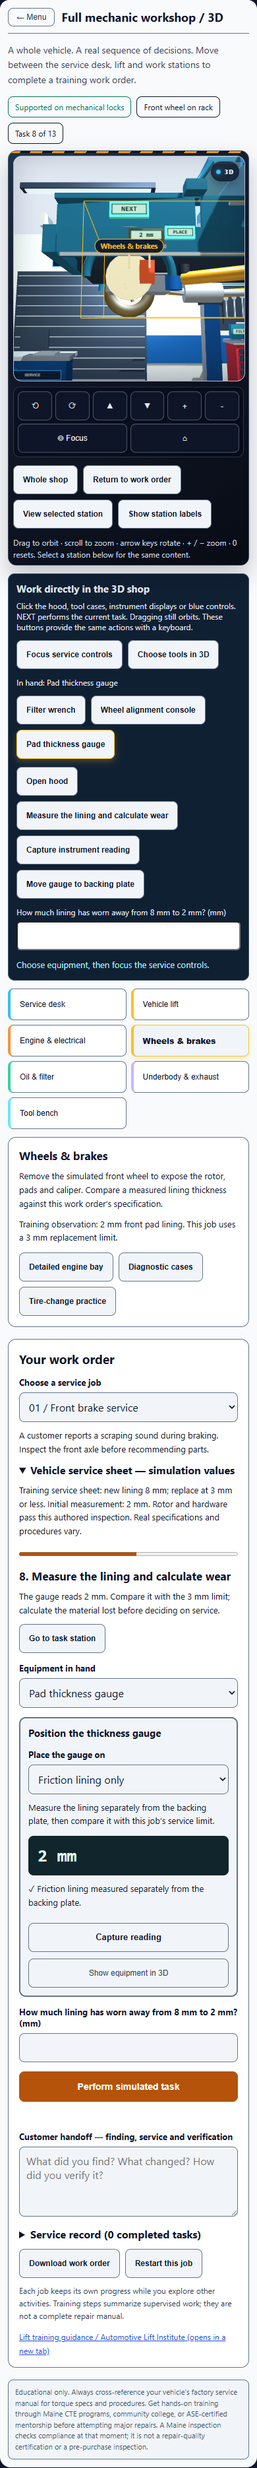
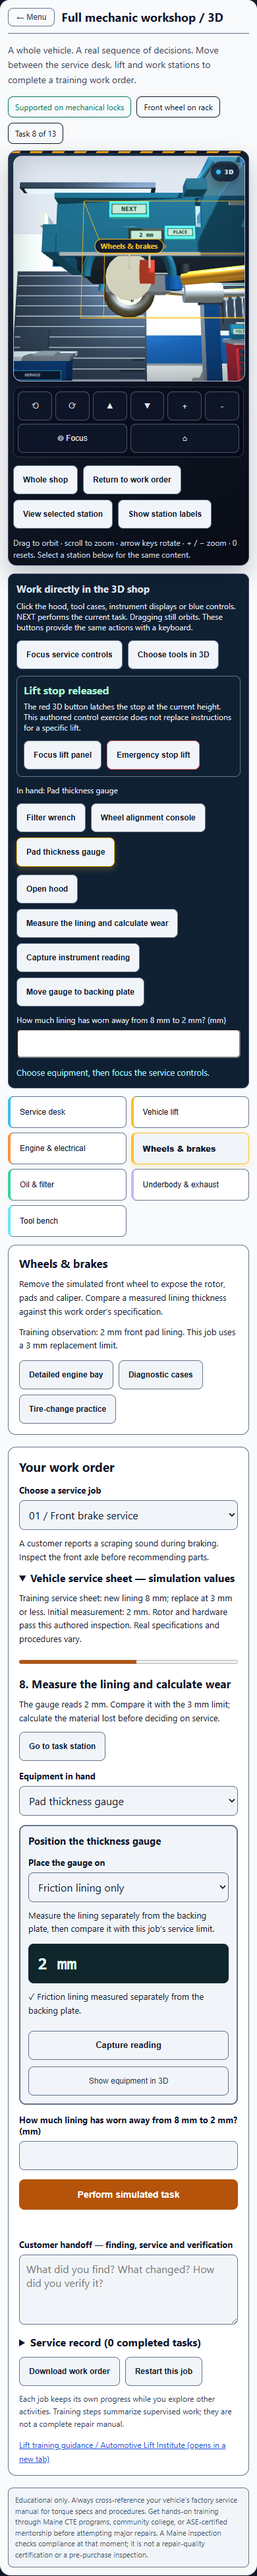
Make workshop lift stop and reset controls operational

diff --git a/desktop/web-app/public/stem_lab/stem_tool_autorepair.js b/desktop/web-app/public/stem_lab/stem_tool_autorepair.js
@@ -9458,7 +9458,7 @@ if (!(window.StemLab.isRegistered && window.StemLab.isRegistered('autoRepair')))
       shopTask('verify', 'brakes', 'aligner', 'Repeat the alignment measurement after securing the adjustment', 'This step represents securing hardware to the vehicle procedure, settling the suspension, checking steering centre and remeasuring. Capture a fresh result before accepting the repair.', { verified: true }, { serviced: true, alignmentReady: true, lift: 'ground', wheelRemoved: false }), SHOP_RELEASE] });
   function arShopJob(id) { return SHOP_JOBS.filter(function (j) { return j.id === id; })[0] || SHOP_JOBS[0]; }
   function arShopInitial(jobId) {
-    return { job: arShopJob(jobId).id, step: 0, station: 'intake', tool: 'job-card', lift: 'ground', hood: false,
+    return { job: arShopJob(jobId).id, step: 0, station: 'intake', tool: 'job-card', lift: 'ground', hood: false, liftStopped: false, liftBayClear: false,
       wheelRemoved: false, measured: false, serviced: false, verified: false, released: false, oilDrained: false,
       alignmentReady: false, alignment: { left: 30, right: 10, selected: 'left', tyres: false, targets: false, centered: false },
       plugSecured: false, refilled: false, torqued: false, wheelSeated: false, lugs: [], reading: null, instrument: { mode: 'dcv', contact: 'posts', load: 'off', surface: 'lining', jugMl: 4100 }, answer: '', notes: '', feedback: '', history: [] };
@@ -9470,6 +9470,8 @@ if (!(window.StemLab.isRegistered && window.StemLab.isRegistered('autoRepair')))
     state.step = Number.isInteger(state.step) ? Math.max(0, Math.min(job.tasks.length, state.step)) : 0;
     if (!SHOP_STATIONS.some(function (p) { return p.id === state.station; })) state.station = 'intake';
     if (['ground', 'prepared', 'low', 'checked', 'raised', 'locked'].indexOf(state.lift) === -1) state.lift = 'ground';
+    state.liftStopped = state.liftStopped === true;
+    state.liftBayClear = state.liftStopped && state.liftBayClear === true;
     var setup = state.instrument && typeof state.instrument === 'object' ? state.instrument : {};
     state.instrument = { mode: setup.mode === 'resistance' ? 'resistance' : 'dcv', contact: setup.contact === 'joint' ? 'joint' : 'posts', load: setup.load === 'starter' ? 'starter' : 'off', surface: setup.surface === 'backing' ? 'backing' : 'lining',
       jugMl: Number.isFinite(setup.jugMl) ? Math.max(0, Math.min(5000, Math.round(setup.jugMl / 100) * 100)) : 4100 };
@@ -9597,6 +9599,7 @@ if (!(window.StemLab.isRegistered && window.StemLab.isRegistered('autoRepair')))
     var state = arShopState(raw), job = arShopJob(state.job), task = job.tasks[state.step];
     function blocked(message) { return Object.assign({}, state, { feedback: message }); }
     if (!task) return blocked('This training work order is complete. Review the handoff or choose another job.');
+    if (state.liftStopped && task.tool === 'lift-controls') return blocked('Lift stop is latched. Check the bay is clear and reset the stop before issuing a new lift command.');
     if (state.station !== task.station) return blocked('Go to ' + SHOP_STATIONS.filter(function (p) { return p.id === task.station; })[0].label + ' for this task.');
     if (state.tool !== task.tool) return blocked('Choose ' + SHOP_TOOLS.filter(function (t) { return t[0] === task.tool; })[0][1] + ' for this task.');
     var unmet = Object.keys(task.requires).some(function (key) { return state[key] !== task.requires[key]; });
@@ -9620,6 +9623,11 @@ if (!(window.StemLab.isRegistered && window.StemLab.isRegistered('autoRepair')))
   }
   function arShop3DActions(state) {
     var task = arShopJob(state.job).tasks[state.step], kind = arShopInstrumentKind(state), actions = [];
+    actions.push({ id: 'lift-stop', label: 'Emergency stop lift', station: 'lift' });
+    if (state.liftStopped) {
+      actions.push({ id: 'lift-clear', label: state.liftBayClear ? 'Reopen bay-clear check' : 'Confirm simulated bay is clear', station: 'lift' });
+      actions.push({ id: 'lift-reset', label: 'Reset lift stop', station: 'lift' });
+    }
     if (!(state.job === 'alignment' && state.alignmentCutaway)) actions.push({ id: 'hood', label: state.hood ? 'Close hood' : 'Open hood', station: 'engine' });
     if (!task) return actions;
     actions.push({ id: 'task', label: task.label, station: task.station });
@@ -9659,6 +9667,12 @@ if (!(window.StemLab.isRegistered && window.StemLab.isRegistered('autoRepair')))
     var action = arShop3DActions(state).filter(function (item) { return item.id === id; })[0];
     if (!action) return blocked('This control is unavailable for the current task.');
     var atStation = Object.assign({}, state, { station: action.station });
+    if (id === 'lift-stop') return Object.assign({}, atStation, { liftStopped: true, liftBayClear: false, feedback: 'Lift stop latched. Lift commands are blocked; the vehicle stays at its current height. Check the bay before resetting.' });
+    if (id === 'lift-clear') return Object.assign({}, atStation, { liftBayClear: !state.liftBayClear, feedback: state.liftBayClear ? 'Bay-clear check reopened. The lift remains stopped.' : 'Simulated bay-clear check recorded. Reset the stop when ready; reset will not move the vehicle.' });
+    if (id === 'lift-reset') {
+      if (!state.liftBayClear) return blocked('Confirm the simulated bay is clear before resetting the lift stop.');
+      return Object.assign({}, atStation, { liftStopped: false, liftBayClear: false, feedback: 'Lift stop reset. Vehicle position is unchanged. Issue a new lift command to continue.' });
+    }
     if (id === 'hood') return Object.assign({}, atStation, { hood: !state.hood, reading: null, feedback: state.hood ? 'Hood closed.' : 'Hood opened. Engine components are accessible.' });
     if (id === 'task') return arShopAdvance(atStation);
     // Physical instrument controls obey the same equipment/access gates as capturing a reading.
@@ -9930,7 +9944,12 @@ if (!(window.StemLab.isRegistered && window.StemLab.isRegistered('autoRepair')))
     });
     box(lift, 'lift-overhead-crossbar', [0.26, 0.17, 2.97], [0.05, 3.30, 0], blue);
     box(lift, 'lift-control-panel', [0.20, 0.31, 0.16], [-0.13, 1.35, 1.51], dark);
-    cylinder(lift, 'lift-emergency-stop', 0.035, 0.032, [-0.13, 1.39, 1.607], red, 'z');
+    cylinder(lift, 'lift-stop-surround', 0.060, 0.012, [-0.13, 1.39, 1.603], amber, 'z');
+    var stopButton = cylinder(lift, 'lift-emergency-stop', 0.042, 0.032, [-0.13, 1.39, state.liftStopped ? 1.616 : 1.636], red, 'z');
+    stopButton.userData.latched = state.liftStopped;
+    var stopDisplay = instrumentDisplay(lift, state.liftStopped ? 'STOP' : 'READY', [-0.13, 1.60, 1.61], 0.32);
+    if (stopDisplay) stopDisplay.name = 'lift-stop-status-display';
+    cylinder(lift, 'lift-stop-status-light', 0.025, 0.020, [0.10, 1.60, 1.61], state.liftStopped ? red : green, 'z');
     register('lift', lift, [0.05, 1.75, 1.36]);
     if (state.job === 'alignment') {
       var toe = arShopAlignment(state), alignmentRig = new THREE.Group(); alignmentRig.name = 'workshop-alignment-rig'; brakes.add(alignmentRig);
@@ -10061,6 +10080,10 @@ if (!(window.StemLab.isRegistered && window.StemLab.isRegistered('autoRepair')))
       box(group, 'control-case-' + id, [width + 0.04, width * 0.32 + 0.045, 0.045], [0, 0, 0], api.trim(0x22d3ee, 20));
       instrumentDisplay(group, caption, [0, 0, 0.026], width); bindControl(group, id); return group;
     }
+    bindControl(stopButton, 'lift-stop');
+    bindControl(lift.getObjectByName('lift-stop-surround'), 'lift-stop');
+    directButton(lift, 'lift-clear', state.liftBayClear ? 'RECHECK' : 'CLEAR?', [-0.40, 0.98, 1.64], 0.30);
+    directButton(lift, 'lift-reset', 'RESET', [0.02, 0.98, 1.64], 0.30);
     bindControl(hood, 'hood');
     var toolShort = { 'job-card': 'ORDER', 'lift-card': 'CHECK', 'lift-controls': 'LIFT', lamp: 'LAMP', socket: 'SOCKET', gauge: 'GAUGE', 'brake-kit': 'BRAKES', torque: 'TORQUE', 'drain-pan': 'DRAIN', filter: 'FILTER', funnel: 'OIL JUG', meter: 'METER', 'terminal-kit': 'CLAMP', checklist: 'VERIFY', aligner: 'ALIGN', 'tie-rod': 'TIE ROD' };
     arShop3DTools(state).forEach(function (tool, index) {
@@ -19915,7 +19938,7 @@ if (!(window.StemLab.isRegistered && window.StemLab.isRegistered('autoRepair')))
         var instrumentKind = arShopInstrumentKind(shop);
         var instrumentVisible = instrumentKind && task && shop.station === task.station && shop.tool === task.tool;
         var equipmentState = instrumentVisible ? JSON.stringify([instrumentKind, shop.instrument, shop.reading ? shop.reading.key : '']) : '';
-        var sceneState = [shop.job, shop.step, shop.tool, shop.lift, shop.hood, shop.wheelRemoved, shop.serviced, shop.oilDrained, shop.refilled, shop.wheelSeated, instrumentKind === 'torque' ? shop.lugs.join(',') : '', instrumentKind === 'torque', equipmentState, shop.job === 'alignment' ? JSON.stringify([shop.alignment, !!shop.alignmentCutaway]) : ''].join('-');
+        var sceneState = [shop.job, shop.step, shop.tool, shop.lift, shop.liftStopped, shop.liftBayClear, shop.hood, shop.wheelRemoved, shop.serviced, shop.oilDrained, shop.refilled, shop.wheelSeated, instrumentKind === 'torque' ? shop.lugs.join(',') : '', instrumentKind === 'torque', equipmentState, shop.job === 'alignment' ? JSON.stringify([shop.alignment, !!shop.alignmentCutaway]) : ''].join('-');
         SHOP3D.sync({ selected: shop.station, dark: isDark, contrast: isContrast,
           sceneKey: 'whole-workshop-' + sceneState, sceneProps: shop, showAllLabels: !!d.shopLabels,
           onPick: pick, onStatus: function (next) { upd('uh3dStatus', next); } });
@@ -19938,6 +19961,10 @@ if (!(window.StemLab.isRegistered && window.StemLab.isRegistered('autoRepair')))
             SHOP3D.focus('lift', { distance: 2.6, target: { x: -0.13, y: 1.30, z: 1.51 }, immediate: true });
           }
         }
+        function focusLiftControls() {
+          pick('lift'); stationCamera('lift'); SHOP3D.reset(); SHOP3D.nudge(0.65, 0);
+          SHOP3D.focus('lift', { distance: 2.6, target: { x: -0.13, y: 1.30, z: 1.51 }, immediate: true });
+        }
         function sceneControlPanel() {
           function use(id) { pick(arShop3DToken(shop, id)); }
           return h('section', { 'data-ar-scene-controls': true, 'aria-label': 'Direct workshop controls', style: { marginTop: 12, padding: 12, border: '1px solid #475569', borderRadius: 10, background: '#102033', color: '#e2e8f0' } },
@@ -19949,11 +19976,21 @@ if (!(window.StemLab.isRegistered && window.StemLab.isRegistered('autoRepair')))
                 pick('tools'); stationCamera('tools'); SHOP3D.reset(); SHOP3D.nudge(0.65, 0);
                 SHOP3D.focus('tools', { distance: 2.6, target: { x: 1.7, y: 1.30, z: -2.97 }, immediate: true });
               }, { 'data-ar-scene-tools-focus': true })),
+            h('div', { 'data-ar-lift-stop-panel': true, style: { padding: 10, marginTop: 10, border: '1px solid ' + (shop.liftStopped ? '#f87171' : '#64748b'), borderRadius: 8 } },
+              h('strong', { 'data-ar-lift-stop-status': shop.liftStopped ? 'stopped' : 'ready', style: { display: 'block', color: shop.liftStopped ? '#fca5a5' : '#a7f3d0' } }, shop.liftStopped ? 'Lift stop latched — commands blocked' : 'Lift stop released'),
+              h('p', { style: { fontSize: 12, margin: '6px 0' } }, shop.liftStopped ? 'Vehicle remains: ' + liftLabels[shop.lift] + '. Check the simulated bay, then reset. Resetting does not resume a command.' : 'The red 3D button latches the stop at the current height. This authored control exercise does not replace instructions for a specific lift.'),
+              h('div', { className: 'ar-shop-actions' },
+                control('Focus lift panel', focusLiftControls, { 'data-ar-lift-focus': true }),
+                arShop3DActions(shop).filter(function (action) { return action.id.indexOf('lift-') === 0; }).map(function (action) {
+                  return control(action.label, function () { use(action.id); }, { key: action.id, 'data-ar-scene-action': action.id,
+                    'aria-pressed': action.id === 'lift-stop' ? shop.liftStopped : action.id === 'lift-clear' ? shop.liftBayClear : undefined,
+                    style: btnSecondary({ minHeight: 44, fontSize: 12, border: '1px solid ' + (action.id === 'lift-stop' ? '#f87171' : '#64748b') }) });
+                }))),
             h('p', { style: { fontSize: 12 } }, 'In hand: ' + (SHOP_TOOLS.filter(function (tool) { return tool[0] === shop.tool; })[0] || ['', 'No listed tool'])[1]),
             h('div', { className: 'ar-shop-actions', 'aria-label': 'Current tool tray' }, arShop3DTools(shop).map(function (tool) {
               return control(tool[1], function () { use('equip-' + tool[0]); }, { key: tool[0], 'data-ar-scene-tool': tool[0], 'aria-pressed': shop.tool === tool[0] });
             })),
-            h('div', { className: 'ar-shop-actions', 'aria-label': 'Physical control actions' }, arShop3DActions(shop).map(function (action) {
+            h('div', { className: 'ar-shop-actions', 'aria-label': 'Physical control actions' }, arShop3DActions(shop).filter(function (action) { return action.id.indexOf('lift-') !== 0; }).map(function (action) {
               return control(action.label, function () { use(action.id); }, { key: action.id, 'data-ar-scene-action': action.id });
             })),
             task && (task.id === 'measure' || task.id === 'refill') && h('div', { style: { marginTop: 12 } },

diff --git a/stem_lab/stem_tool_autorepair.js b/stem_lab/stem_tool_autorepair.js
@@ -9458,7 +9458,7 @@ if (!(window.StemLab.isRegistered && window.StemLab.isRegistered('autoRepair')))
       shopTask('verify', 'brakes', 'aligner', 'Repeat the alignment measurement after securing the adjustment', 'This step represents securing hardware to the vehicle procedure, settling the suspension, checking steering centre and remeasuring. Capture a fresh result before accepting the repair.', { verified: true }, { serviced: true, alignmentReady: true, lift: 'ground', wheelRemoved: false }), SHOP_RELEASE] });
   function arShopJob(id) { return SHOP_JOBS.filter(function (j) { return j.id === id; })[0] || SHOP_JOBS[0]; }
   function arShopInitial(jobId) {
-    return { job: arShopJob(jobId).id, step: 0, station: 'intake', tool: 'job-card', lift: 'ground', hood: false,
+    return { job: arShopJob(jobId).id, step: 0, station: 'intake', tool: 'job-card', lift: 'ground', hood: false, liftStopped: false, liftBayClear: false,
       wheelRemoved: false, measured: false, serviced: false, verified: false, released: false, oilDrained: false,
       alignmentReady: false, alignment: { left: 30, right: 10, selected: 'left', tyres: false, targets: false, centered: false },
       plugSecured: false, refilled: false, torqued: false, wheelSeated: false, lugs: [], reading: null, instrument: { mode: 'dcv', contact: 'posts', load: 'off', surface: 'lining', jugMl: 4100 }, answer: '', notes: '', feedback: '', history: [] };
@@ -9470,6 +9470,8 @@ if (!(window.StemLab.isRegistered && window.StemLab.isRegistered('autoRepair')))
     state.step = Number.isInteger(state.step) ? Math.max(0, Math.min(job.tasks.length, state.step)) : 0;
     if (!SHOP_STATIONS.some(function (p) { return p.id === state.station; })) state.station = 'intake';
     if (['ground', 'prepared', 'low', 'checked', 'raised', 'locked'].indexOf(state.lift) === -1) state.lift = 'ground';
+    state.liftStopped = state.liftStopped === true;
+    state.liftBayClear = state.liftStopped && state.liftBayClear === true;
     var setup = state.instrument && typeof state.instrument === 'object' ? state.instrument : {};
     state.instrument = { mode: setup.mode === 'resistance' ? 'resistance' : 'dcv', contact: setup.contact === 'joint' ? 'joint' : 'posts', load: setup.load === 'starter' ? 'starter' : 'off', surface: setup.surface === 'backing' ? 'backing' : 'lining',
       jugMl: Number.isFinite(setup.jugMl) ? Math.max(0, Math.min(5000, Math.round(setup.jugMl / 100) * 100)) : 4100 };
@@ -9597,6 +9599,7 @@ if (!(window.StemLab.isRegistered && window.StemLab.isRegistered('autoRepair')))
     var state = arShopState(raw), job = arShopJob(state.job), task = job.tasks[state.step];
     function blocked(message) { return Object.assign({}, state, { feedback: message }); }
     if (!task) return blocked('This training work order is complete. Review the handoff or choose another job.');
+    if (state.liftStopped && task.tool === 'lift-controls') return blocked('Lift stop is latched. Check the bay is clear and reset the stop before issuing a new lift command.');
     if (state.station !== task.station) return blocked('Go to ' + SHOP_STATIONS.filter(function (p) { return p.id === task.station; })[0].label + ' for this task.');
     if (state.tool !== task.tool) return blocked('Choose ' + SHOP_TOOLS.filter(function (t) { return t[0] === task.tool; })[0][1] + ' for this task.');
     var unmet = Object.keys(task.requires).some(function (key) { return state[key] !== task.requires[key]; });
@@ -9620,6 +9623,11 @@ if (!(window.StemLab.isRegistered && window.StemLab.isRegistered('autoRepair')))
   }
   function arShop3DActions(state) {
     var task = arShopJob(state.job).tasks[state.step], kind = arShopInstrumentKind(state), actions = [];
+    actions.push({ id: 'lift-stop', label: 'Emergency stop lift', station: 'lift' });
+    if (state.liftStopped) {
+      actions.push({ id: 'lift-clear', label: state.liftBayClear ? 'Reopen bay-clear check' : 'Confirm simulated bay is clear', station: 'lift' });
+      actions.push({ id: 'lift-reset', label: 'Reset lift stop', station: 'lift' });
+    }
     if (!(state.job === 'alignment' && state.alignmentCutaway)) actions.push({ id: 'hood', label: state.hood ? 'Close hood' : 'Open hood', station: 'engine' });
     if (!task) return actions;
     actions.push({ id: 'task', label: task.label, station: task.station });
@@ -9659,6 +9667,12 @@ if (!(window.StemLab.isRegistered && window.StemLab.isRegistered('autoRepair')))
     var action = arShop3DActions(state).filter(function (item) { return item.id === id; })[0];
     if (!action) return blocked('This control is unavailable for the current task.');
     var atStation = Object.assign({}, state, { station: action.station });
+    if (id === 'lift-stop') return Object.assign({}, atStation, { liftStopped: true, liftBayClear: false, feedback: 'Lift stop latched. Lift commands are blocked; the vehicle stays at its current height. Check the bay before resetting.' });
+    if (id === 'lift-clear') return Object.assign({}, atStation, { liftBayClear: !state.liftBayClear, feedback: state.liftBayClear ? 'Bay-clear check reopened. The lift remains stopped.' : 'Simulated bay-clear check recorded. Reset the stop when ready; reset will not move the vehicle.' });
+    if (id === 'lift-reset') {
+      if (!state.liftBayClear) return blocked('Confirm the simulated bay is clear before resetting the lift stop.');
+      return Object.assign({}, atStation, { liftStopped: false, liftBayClear: false, feedback: 'Lift stop reset. Vehicle position is unchanged. Issue a new lift command to continue.' });
+    }
     if (id === 'hood') return Object.assign({}, atStation, { hood: !state.hood, reading: null, feedback: state.hood ? 'Hood closed.' : 'Hood opened. Engine components are accessible.' });
     if (id === 'task') return arShopAdvance(atStation);
     // Physical instrument controls obey the same equipment/access gates as capturing a reading.
@@ -9930,7 +9944,12 @@ if (!(window.StemLab.isRegistered && window.StemLab.isRegistered('autoRepair')))
     });
     box(lift, 'lift-overhead-crossbar', [0.26, 0.17, 2.97], [0.05, 3.30, 0], blue);
     box(lift, 'lift-control-panel', [0.20, 0.31, 0.16], [-0.13, 1.35, 1.51], dark);
-    cylinder(lift, 'lift-emergency-stop', 0.035, 0.032, [-0.13, 1.39, 1.607], red, 'z');
+    cylinder(lift, 'lift-stop-surround', 0.060, 0.012, [-0.13, 1.39, 1.603], amber, 'z');
+    var stopButton = cylinder(lift, 'lift-emergency-stop', 0.042, 0.032, [-0.13, 1.39, state.liftStopped ? 1.616 : 1.636], red, 'z');
+    stopButton.userData.latched = state.liftStopped;
+    var stopDisplay = instrumentDisplay(lift, state.liftStopped ? 'STOP' : 'READY', [-0.13, 1.60, 1.61], 0.32);
+    if (stopDisplay) stopDisplay.name = 'lift-stop-status-display';
+    cylinder(lift, 'lift-stop-status-light', 0.025, 0.020, [0.10, 1.60, 1.61], state.liftStopped ? red : green, 'z');
     register('lift', lift, [0.05, 1.75, 1.36]);
     if (state.job === 'alignment') {
       var toe = arShopAlignment(state), alignmentRig = new THREE.Group(); alignmentRig.name = 'workshop-alignment-rig'; brakes.add(alignmentRig);
@@ -10061,6 +10080,10 @@ if (!(window.StemLab.isRegistered && window.StemLab.isRegistered('autoRepair')))
       box(group, 'control-case-' + id, [width + 0.04, width * 0.32 + 0.045, 0.045], [0, 0, 0], api.trim(0x22d3ee, 20));
       instrumentDisplay(group, caption, [0, 0, 0.026], width); bindControl(group, id); return group;
     }
+    bindControl(stopButton, 'lift-stop');
+    bindControl(lift.getObjectByName('lift-stop-surround'), 'lift-stop');
+    directButton(lift, 'lift-clear', state.liftBayClear ? 'RECHECK' : 'CLEAR?', [-0.40, 0.98, 1.64], 0.30);
+    directButton(lift, 'lift-reset', 'RESET', [0.02, 0.98, 1.64], 0.30);
     bindControl(hood, 'hood');
     var toolShort = { 'job-card': 'ORDER', 'lift-card': 'CHECK', 'lift-controls': 'LIFT', lamp: 'LAMP', socket: 'SOCKET', gauge: 'GAUGE', 'brake-kit': 'BRAKES', torque: 'TORQUE', 'drain-pan': 'DRAIN', filter: 'FILTER', funnel: 'OIL JUG', meter: 'METER', 'terminal-kit': 'CLAMP', checklist: 'VERIFY', aligner: 'ALIGN', 'tie-rod': 'TIE ROD' };
     arShop3DTools(state).forEach(function (tool, index) {
@@ -19915,7 +19938,7 @@ if (!(window.StemLab.isRegistered && window.StemLab.isRegistered('autoRepair')))
         var instrumentKind = arShopInstrumentKind(shop);
         var instrumentVisible = instrumentKind && task && shop.station === task.station && shop.tool === task.tool;
         var equipmentState = instrumentVisible ? JSON.stringify([instrumentKind, shop.instrument, shop.reading ? shop.reading.key : '']) : '';
-        var sceneState = [shop.job, shop.step, shop.tool, shop.lift, shop.hood, shop.wheelRemoved, shop.serviced, shop.oilDrained, shop.refilled, shop.wheelSeated, instrumentKind === 'torque' ? shop.lugs.join(',') : '', instrumentKind === 'torque', equipmentState, shop.job === 'alignment' ? JSON.stringify([shop.alignment, !!shop.alignmentCutaway]) : ''].join('-');
+        var sceneState = [shop.job, shop.step, shop.tool, shop.lift, shop.liftStopped, shop.liftBayClear, shop.hood, shop.wheelRemoved, shop.serviced, shop.oilDrained, shop.refilled, shop.wheelSeated, instrumentKind === 'torque' ? shop.lugs.join(',') : '', instrumentKind === 'torque', equipmentState, shop.job === 'alignment' ? JSON.stringify([shop.alignment, !!shop.alignmentCutaway]) : ''].join('-');
         SHOP3D.sync({ selected: shop.station, dark: isDark, contrast: isContrast,
           sceneKey: 'whole-workshop-' + sceneState, sceneProps: shop, showAllLabels: !!d.shopLabels,
           onPick: pick, onStatus: function (next) { upd('uh3dStatus', next); } });
@@ -19938,6 +19961,10 @@ if (!(window.StemLab.isRegistered && window.StemLab.isRegistered('autoRepair')))
             SHOP3D.focus('lift', { distance: 2.6, target: { x: -0.13, y: 1.30, z: 1.51 }, immediate: true });
           }
         }
+        function focusLiftControls() {
+          pick('lift'); stationCamera('lift'); SHOP3D.reset(); SHOP3D.nudge(0.65, 0);
+          SHOP3D.focus('lift', { distance: 2.6, target: { x: -0.13, y: 1.30, z: 1.51 }, immediate: true });
+        }
         function sceneControlPanel() {
           function use(id) { pick(arShop3DToken(shop, id)); }
           return h('section', { 'data-ar-scene-controls': true, 'aria-label': 'Direct workshop controls', style: { marginTop: 12, padding: 12, border: '1px solid #475569', borderRadius: 10, background: '#102033', color: '#e2e8f0' } },
@@ -19949,11 +19976,21 @@ if (!(window.StemLab.isRegistered && window.StemLab.isRegistered('autoRepair')))
                 pick('tools'); stationCamera('tools'); SHOP3D.reset(); SHOP3D.nudge(0.65, 0);
                 SHOP3D.focus('tools', { distance: 2.6, target: { x: 1.7, y: 1.30, z: -2.97 }, immediate: true });
               }, { 'data-ar-scene-tools-focus': true })),
+            h('div', { 'data-ar-lift-stop-panel': true, style: { padding: 10, marginTop: 10, border: '1px solid ' + (shop.liftStopped ? '#f87171' : '#64748b'), borderRadius: 8 } },
+              h('strong', { 'data-ar-lift-stop-status': shop.liftStopped ? 'stopped' : 'ready', style: { display: 'block', color: shop.liftStopped ? '#fca5a5' : '#a7f3d0' } }, shop.liftStopped ? 'Lift stop latched — commands blocked' : 'Lift stop released'),
+              h('p', { style: { fontSize: 12, margin: '6px 0' } }, shop.liftStopped ? 'Vehicle remains: ' + liftLabels[shop.lift] + '. Check the simulated bay, then reset. Resetting does not resume a command.' : 'The red 3D button latches the stop at the current height. This authored control exercise does not replace instructions for a specific lift.'),
+              h('div', { className: 'ar-shop-actions' },
+                control('Focus lift panel', focusLiftControls, { 'data-ar-lift-focus': true }),
+                arShop3DActions(shop).filter(function (action) { return action.id.indexOf('lift-') === 0; }).map(function (action) {
+                  return control(action.label, function () { use(action.id); }, { key: action.id, 'data-ar-scene-action': action.id,
+                    'aria-pressed': action.id === 'lift-stop' ? shop.liftStopped : action.id === 'lift-clear' ? shop.liftBayClear : undefined,
+                    style: btnSecondary({ minHeight: 44, fontSize: 12, border: '1px solid ' + (action.id === 'lift-stop' ? '#f87171' : '#64748b') }) });
+                }))),
             h('p', { style: { fontSize: 12 } }, 'In hand: ' + (SHOP_TOOLS.filter(function (tool) { return tool[0] === shop.tool; })[0] || ['', 'No listed tool'])[1]),
             h('div', { className: 'ar-shop-actions', 'aria-label': 'Current tool tray' }, arShop3DTools(shop).map(function (tool) {
               return control(tool[1], function () { use('equip-' + tool[0]); }, { key: tool[0], 'data-ar-scene-tool': tool[0], 'aria-pressed': shop.tool === tool[0] });
             })),
-            h('div', { className: 'ar-shop-actions', 'aria-label': 'Physical control actions' }, arShop3DActions(shop).map(function (action) {
+            h('div', { className: 'ar-shop-actions', 'aria-label': 'Physical control actions' }, arShop3DActions(shop).filter(function (action) { return action.id.indexOf('lift-') !== 0; }).map(function (action) {
               return control(action.label, function () { use(action.id); }, { key: action.id, 'data-ar-scene-action': action.id });
             })),
             task && (task.id === 'measure' || task.id === 'refill') && h('div', { style: { marginTop: 12 } },

diff --git a/tests/autorepair_full_workshop.test.js b/tests/autorepair_full_workshop.test.js
@@ -335,3 +335,76 @@ describe('Direct physical workshop controls', () => {
     expect(html).toContain('3D view unavailable');
   });
 });
+
+
+describe('Latched workshop lift stop', () => {
+  function use(state, action) { return model.direct(state, model.token(state, action)); }
+  it('loads older work orders with a released stop and normalizes the bay check', () => {
+    expect(model.normalize({ job: 'oil' })).toMatchObject({ liftStopped: false, liftBayClear: false });
+    expect(model.normalize({ liftStopped: false, liftBayClear: true }).liftBayClear).toBe(false);
+    expect(model.normalize({ liftStopped: 'false', liftBayClear: 1 })).toMatchObject({ liftStopped: false, liftBayClear: false });
+  });
+  it.each(['ground', 'prepared', 'low', 'checked', 'raised', 'locked'])('latches at %s without changing the vehicle or work evidence', lift => {
+    const before = model.normalize({ ...model.initial('brakes'), lift, tool: 'socket', notes: 'Inspection notes remain available.' });
+    const stopped = use(before, 'lift-stop');
+    expect(stopped).toMatchObject({ liftStopped: true, liftBayClear: false, lift, tool: 'socket', step: 0, notes: before.notes, history: [] });
+    expect(before.liftStopped).toBe(false);
+    expect(model.normalize(JSON.parse(JSON.stringify(stopped))).liftStopped).toBe(true);
+  });
+  it.each(['brakes', 'oil'])('blocks every lift movement through direct and task-card actions in %s', jobId => {
+    const job = model.jobs.find(j => j.id === jobId);
+    for (const task of job.tasks.filter(t => t.tool === 'lift-controls')) {
+      const state = model.normalize({ ...model.initial(jobId), ...task.requires, step: job.tasks.indexOf(task), station: task.station, tool: task.tool, liftStopped: true });
+      for (const result of [model.advance(state), use(state, 'task')]) {
+        expect(result.step, task.id).toBe(state.step);
+        expect(result.lift, task.id).toBe(state.lift);
+        expect(result.feedback).toContain('Lift stop is latched');
+        expect(result.history).toEqual([]);
+      }
+    }
+  });
+  it('requires a fresh bay-clear check, and reset never resumes or advances a command', () => {
+    let state = model.normalize({ ...model.initial('brakes'), step: 2, station: 'lift', tool: 'lift-controls', lift: 'prepared' });
+    state = use(state, 'lift-stop');
+    expect(use(state, 'lift-reset')).toMatchObject({ liftStopped: true, lift: 'prepared', step: 2 });
+    state = use(state, 'lift-clear');
+    expect(state.liftBayClear).toBe(true);
+    state = use(state, 'lift-stop');
+    expect(state.liftBayClear).toBe(false);
+    state = use(state, 'lift-clear');
+    state = use(state, 'lift-clear');
+    expect(use(state, 'lift-reset').liftStopped).toBe(true);
+    state = use(use(state, 'lift-clear'), 'lift-reset');
+    expect(state).toMatchObject({ liftStopped: false, liftBayClear: false, lift: 'prepared', step: 2, history: [] });
+    expect(use(state, 'task')).toMatchObject({ lift: 'low', step: 3 });
+  });
+  it('retains equipment, reassembly and mechanical-lock gates after a reset', () => {
+    let state = model.normalize({ ...model.initial('brakes'), step: 10, lift: 'locked', wheelRemoved: true, station: 'lift', tool: 'lift-controls' });
+    state = use(use(use(state, 'lift-stop'), 'lift-clear'), 'lift-reset');
+    expect(model.advance(state)).toMatchObject({ step: 10, lift: 'locked', wheelRemoved: true });
+    expect(model.advance({ ...state, wheelRemoved: false, tool: 'lamp' }).step).toBe(10);
+    expect(model.advance({ ...state, wheelRemoved: false, lift: 'raised' }).step).toBe(10);
+    expect(model.advance({ ...state, wheelRemoved: false })).toMatchObject({ step: 11, lift: 'ground' });
+  });
+  it('does not treat the stop as mechanical support or invalidate unrelated instrument evidence', () => {
+    const unsafe = model.normalize({ ...model.initial('brakes'), step: 6, lift: 'raised', station: 'brakes', tool: 'socket', liftStopped: true });
+    expect(model.advance(unsafe).step).toBe(6);
+    let meter = model.normalize({ ...model.initial('electrical'), step: 2, hood: true, station: 'engine', tool: 'meter', answer: '1.4', instrument: { mode: 'dcv', contact: 'joint', load: 'starter' } });
+    meter = model.operate(meter, { type: 'read' });
+    const stopped = use(meter, 'lift-stop');
+    expect(model.ready(stopped)).toBe(true);
+    expect(model.advance({ ...stopped, station: 'engine' }).step).toBe(3);
+    const completed = model.normalize({ ...model.initial('electrical'), step: 6 });
+    expect(use(completed, 'lift-stop').liftStopped).toBe(true);
+  });
+  it('provides the entire stop and reset workflow without WebGL', () => {
+    resetStemLab(); loadTool(file, 'autoRepair');
+    const html = renderTool('autoRepair', { autoRepair: { view: 'workshop', uh3dStatus: 'failed', shop: { liftStopped: true, lift: 'locked' } } });
+    const host = document.createElement('div'); host.innerHTML = html;
+    expect(host.querySelector('[data-ar-lift-stop-status]').textContent).toContain('commands blocked');
+    for (const id of ['lift-stop', 'lift-clear', 'lift-reset']) expect(host.querySelectorAll('[data-ar-scene-action="' + id + '"]')).toHaveLength(1);
+    expect(host.querySelector('[data-ar-scene-action="lift-stop"]').getAttribute('aria-pressed')).toBe('true');
+    expect(host.querySelector('[data-ar-scene-action="lift-clear"]').getAttribute('aria-pressed')).toBe('false');
+    expect(html).toContain('Resetting does not resume a command');
+  });
+});

diff --git a/tests/e2e/autorepair-full-workshop.spec.ts b/tests/e2e/autorepair-full-workshop.spec.ts
@@ -519,3 +519,50 @@ test('direct jug and alignment controls change scene state and remain keyboard-a
   await page.locator('[data-ar-scene-controls]').screenshot({ path: 'reports/automobile-workshop/direct-controls-mobile.png' });
   expect(await page.evaluate(() => (window as any).__events.errors)).toEqual([]);
 });
+
+
+test('physical lift stop latches, survives view changes and resets without resuming motion', async ({ page }) => {
+  await page.setViewportSize({ width: 1360, height: 1100 });
+  await harness.mount(page, { autoRepair: { view: 'workshop', shop: { job: 'brakes', step: 4, station: 'lift', tool: 'lift-controls', lift: 'checked' } } });
+  await page.locator('[data-ar-lift-focus]').click();
+  await clickShop(page, 'lift-emergency-stop');
+  await expect(page.locator('[data-ar-lift-stop-status]')).toHaveAttribute('data-ar-lift-stop-status', 'stopped');
+  await page.waitForFunction(() => (window as any).__shopObject('lift-emergency-stop')?.data.latched === true);
+  expect(await page.evaluate(() => (window as any).__shopObject('workshop-vehicle').y)).toBeCloseTo(0.18);
+  await page.locator('[data-ar-lift-focus]').click();
+  await clickShop(page, 'workshop-control-task');
+  await expect(page.locator('[data-ar-scene-feedback]')).toContainText('Lift stop is latched');
+  await expect(page.locator('[data-ar-shop-task="raise"]')).toBeVisible();
+  await page.locator('[data-ar-shop-perform]').click();
+  await expect(page.locator('[data-ar-shop-feedback]')).toContainText('Lift stop is latched');
+  await page.locator('[data-ar-lift-focus]').click();
+  await clickShop(page, 'workshop-control-lift-reset');
+  await expect(page.locator('[data-ar-scene-feedback]')).toContainText('Confirm the simulated bay is clear');
+  await page.locator('[data-ar-lift-focus]').click();
+  await clickShop(page, 'workshop-control-lift-clear');
+  await expect(page.locator('[data-ar-scene-action="lift-clear"]')).toHaveAttribute('aria-pressed', 'true');
+  await page.locator('[data-ar-lift-focus]').click();
+  await shopPoint(page, 'workshop-control-lift-reset');
+  await page.locator('.ar-shop-viewport').screenshot({ path: 'reports/automobile-workshop/lift-stop-latched.png' });
+  await clickShop(page, 'workshop-control-lift-reset');
+  await expect(page.locator('[data-ar-lift-stop-status]')).toHaveAttribute('data-ar-lift-stop-status', 'ready');
+  await page.waitForFunction(() => (window as any).__shopObject('lift-emergency-stop')?.data.latched === false);
+  expect(await page.evaluate(() => (window as any).__shopObject('workshop-vehicle').y)).toBeCloseTo(0.18);
+  await expect(page.locator('[data-ar-shop-task="raise"]')).toBeVisible();
+  await page.locator('[data-ar-lift-focus]').click();
+  await clickShop(page, 'workshop-control-task');
+  await expect(page.locator('[data-ar-shop-task="locks"]')).toBeVisible();
+  await page.setViewportSize({ width: 390, height: 844 });
+  await page.locator('#wrap').evaluate((el: HTMLElement) => { el.style.width = '100%'; el.style.maxWidth = '100%'; });
+  await page.locator('[data-ar-scene-action="lift-stop"]').focus(); await page.keyboard.press('Enter');
+  await expect(page.locator('[data-ar-lift-stop-status]')).toHaveAttribute('data-ar-lift-stop-status', 'stopped');
+  await page.locator('[data-ar-shop-station="tools"]').click();
+  await expect(page.locator('[data-ar-lift-stop-status]')).toHaveAttribute('data-ar-lift-stop-status', 'stopped');
+  await page.locator('[data-ar-lift-stop-panel]').screenshot({ path: 'reports/automobile-workshop/lift-stop-mobile.png' });
+  await page.locator('[data-ar-scene-action="lift-clear"]').focus(); await page.keyboard.press('Enter');
+  await page.locator('[data-ar-scene-action="lift-reset"]').focus(); await page.keyboard.press('Enter');
+  await expect(page.locator('[data-ar-lift-stop-status]')).toHaveAttribute('data-ar-lift-stop-status', 'ready');
+  await expect(page.locator('[data-ar-shop-task="locks"]')).toBeVisible();
+  expect(await page.evaluate(() => document.documentElement.scrollWidth <= innerWidth + 1)).toBe(true);
+  expect(await page.evaluate(() => (window as any).__events.errors)).toEqual([]);
+});

diff --git a/docs/automobile-workshop-review-2026-09-08.md b/docs/automobile-workshop-review-2026-09-08.md
@@ -115,6 +115,19 @@ Direct-control evidence:
 - [Lift controls](../reports/automobile-workshop/direct-lift-controls.png)
 - [Keyboard controls on mobile](../reports/automobile-workshop/direct-controls-mobile.png)
 
+## Follow-up: operational lift stop and recovery
+
+The lift's red mushroom button now latches a saved stop state. Every lift movement command (initial rise, working-height rise, settling on locks and lowering) checks that state through both the 3D controls and the task card. Pressing stop preserves the current height, mechanical support state, tool, work history and instrument evidence. It does not substitute for mechanical locks or bypass any access requirements.
+
+The physical panel shows STOP/READY, a red/green status lamp and a depressed stop button when latched. While stopped, CLEAR? and RESET controls appear. The learner records a simulated clear-bay check before resetting; reopening the check or pressing stop again removes that confirmation. Resetting only releases the command interlock: it does not move the vehicle or complete a task. A new command still needs the correct equipment, prerequisites and reassembly state.
+
+A dedicated HTML panel exposes the same actions, stop status and vehicle position with keyboard support, including without WebGL. Focus lift panel brings the physical controls into view from any station. Stop state survives serialized work-order progress; older records default to a released stop. This remains an authored, discrete control exercise, not a hydraulic model, fault-detection system or operating procedure for a real lift.
+
+Validation: **504 tests across all 39 automobile suites passed**, including 57 workshop state/render tests. **All 13 workshop browser tests passed** in Chromium with real Three.js/WebGL, including physical stop/check/reset picking, blocked commands through both interaction paths, no movement on reset, station switching and mobile keyboard recovery. The browser run took 6.8 minutes; the broader regression took 82.06 seconds. Desktop controls, the mobile recovery panel and the complete mobile action panel were visually inspected. Syntax, scoped diff hygiene and source/public parity passed. No deployment or installer build was performed.
+
+- [Latched stop and physical recovery controls](../reports/automobile-workshop/lift-stop-latched.png)
+- [Mobile stop and reset panel](../reports/automobile-workshop/lift-stop-mobile.png)
+
 ## Scope and remaining opportunities
 
 This is an authored educational simulation. Service actions represent supervised procedures; it does not model wrench forces, hydraulic pressure, component collision, thread engagement, fluid dynamics or every repair operation. The work orders do not supply universal torque/fluid specifications or certify a real vehicle. Exhaust and tool stations currently support exploration rather than separate exhaust-repair or inventory-management jobs.
